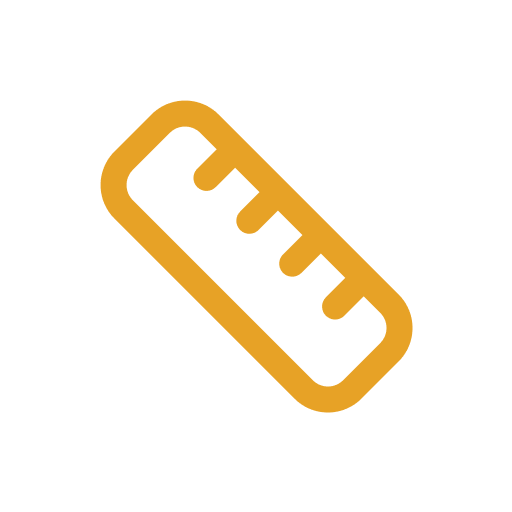
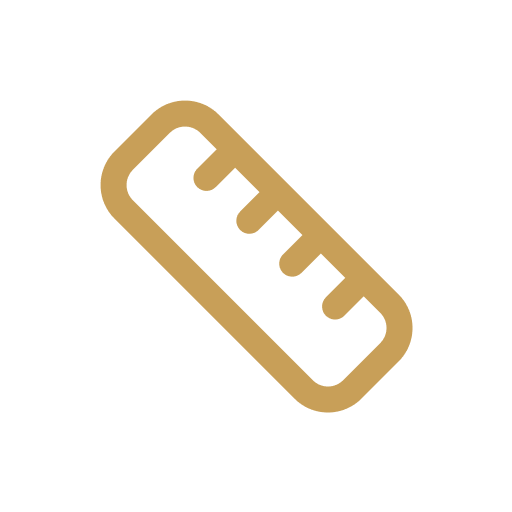
Harden gallery background refresh

Changed region(s): [[0.1875, 0.1875, 0.8125, 0.8125]]

diff --git a/components/gallery.tsx b/components/gallery.tsx
@@ -1,10 +1,9 @@
 "use client"
 
 import { Heart, Plus, Ruler, Search, Tags, Upload, X } from "lucide-react"
-import { useRouter } from "next/navigation"
 import { useEffect, useMemo, useRef, useState } from "react"
 import { toast } from "sonner"
-import { createPattern, createPatternsBatch, deletePattern, updatePattern } from "@/app/actions/patterns"
+import { createPattern, createPatternsBatch, deletePattern, getGallerySnapshot, updatePattern } from "@/app/actions/patterns"
 import { PatternCard } from "@/components/pattern-card"
 import { PatternModal } from "@/components/pattern-modal"
 import { PatternEditor, type EditablePattern } from "@/components/pattern-editor"
@@ -43,7 +42,6 @@ export function Gallery({
   patterns: GalleryPattern[]
   tags: AdminTag[]
 }) {
-  const router = useRouter()
   const [studio, setStudio] = useState<string>("all")
   const [categories, setCategories] = useState<string[]>([])
   const [query, setQuery] = useState("")
@@ -85,6 +83,7 @@ export function Gallery({
   // 本地可写的纸样列表（乐观更新）。首屏来自服务端数据，新增/编辑/删除时立刻改这里，
   // 后台 fire-and-forget 同步到 server（unstable_cache 命中时刷新几乎无感）。
   const [patterns, setPatterns] = useState<GalleryPattern[]>(initialPatterns)
+  const [currentTags, setCurrentTags] = useState<AdminTag[]>(tags)
   useEffect(() => {
     setPatterns(initialPatterns)
   }, [initialPatterns])
@@ -98,31 +97,47 @@ export function Gallery({
   const [deleting, setDeleting] = useState(false)
 
   // Keep other devices reasonably fresh without requiring a manual reload.
-  // Pause while a dialog is open so a refresh cannot interrupt an active edit/import.
+  // Use a safely caught Server Action instead of router.refresh(), so a transient
+  // database error cannot replace the whole gallery with the route error boundary.
+  const snapshotRequestInFlight = useRef(false)
   useEffect(() => {
     if (active || editorOpen || tagManagerOpen || batchOpen || deleteTarget) return
-    const refreshIfVisible = () => {
-      if (!document.hidden) router.refresh()
+    let disposed = false
+    const refreshIfVisible = async () => {
+      if (document.hidden || snapshotRequestInFlight.current) return
+      snapshotRequestInFlight.current = true
+      try {
+        const snapshot = await getGallerySnapshot()
+        if (disposed) return
+        setPatterns(snapshot.patterns)
+        setCurrentTags(snapshot.tags)
+      } catch (error) {
+        // Keep the last good snapshot visible; a later poll will retry.
+        console.warn("[gallery] Background refresh failed; keeping current data", error)
+      } finally {
+        snapshotRequestInFlight.current = false
+      }
     }
     const timer = window.setInterval(refreshIfVisible, 15_000)
     document.addEventListener("visibilitychange", refreshIfVisible)
     return () => {
+      disposed = true
       window.clearInterval(timer)
       document.removeEventListener("visibilitychange", refreshIfVisible)
     }
-  }, [router, active, editorOpen, tagManagerOpen, batchOpen, deleteTarget])
+  }, [active, editorOpen, tagManagerOpen, batchOpen, deleteTarget])
 
   // 标签名 -> 颜色 key
   const tagColors = useMemo(() => {
     const m: Record<string, string> = {}
-    tags.forEach((t) => (m[t.name] = t.color))
+    currentTags.forEach((t) => (m[t.name] = t.color))
     return m
-  }, [tags])
+  }, [currentTags])
 
   // 编辑器用的标签信息
   const tagInfos = useMemo<TagInfo[]>(
-    () => tags.map((t) => ({ name: t.name, color: t.color as TagInfo["color"] })),
-    [tags],
+    () => currentTags.map((t) => ({ name: t.name, color: t.color as TagInfo["color"] })),
+    [currentTags],
   )
 
   // 数据版本号：服务器返回的 patterns 引用变化时递增，用于触发本地状态重置
@@ -458,7 +473,7 @@ export function Gallery({
         <main className="min-w-0 flex-1 px-4 py-5 sm:px-6">
           {/* 品类标签筛选栏 */}
           <div className="mb-5 flex flex-wrap items-center gap-2">
-            {tags.map((tag) => {
+            {currentTags.map((tag) => {
               const selected = categories.includes(tag.name)
               const c = tagColorClasses(tag.color)
               return (
@@ -587,7 +602,7 @@ export function Gallery({
       <TagManager
         open={tagManagerOpen}
         onOpenChange={setTagManagerOpen}
-        tags={tags}
+        tags={currentTags}
       />
 
       <BatchUpload

diff --git a/components/batch-upload.tsx b/components/batch-upload.tsx
@@ -28,8 +28,8 @@ const TEMPLATE_HEADERS = [
   "图3",
   "图4",
   "图5",
-  "电子文件名",
   "网盘链接",
+  "电子文件名",
   "备注",
 ] as const
 
@@ -43,8 +43,8 @@ const TEMPLATE_EXAMPLE = [
   "",
   "",
   "",
-  "shirt.pdf",
   "",
+  "shirt.pdf",
   "春夏新款",
 ]
 
@@ -62,7 +62,7 @@ function createExcelTemplate() {
     const ref = `${String.fromCharCode(65 + i)}2`
     return `<c r="${ref}" t="inlineStr"><is><t>${xmlEscape(value)}</t></is></c>`
   }).join("")
-  const widths = [24, 20, 22, 16, 16, 16, 16, 16, 24, 36, 28]
+  const widths = [24, 20, 22, 16, 16, 16, 16, 16, 36, 24, 28]
     .map((width, i) => `<col min="${i + 1}" max="${i + 1}" width="${width}" customWidth="1"/>`)
     .join("")
   const sheetXml = `<?xml version="1.0" encoding="UTF-8" standalone="yes"?><worksheet xmlns="http://schemas.openxmlformats.org/spreadsheetml/2006/main"><sheetViews><sheetView workbookViewId="0"><pane ySplit="1" topLeftCell="A2" activePane="bottomLeft" state="frozen"/></sheetView></sheetViews><sheetFormatPr defaultRowHeight="72"/><cols>${widths}</cols><sheetData><row r="1" ht="25" customHeight="1">${headerCells}</row><row r="2">${exampleCells}</row></sheetData><autoFilter ref="A1:K2"/></worksheet>`

diff --git a/app/actions/patterns.ts b/app/actions/patterns.ts
@@ -6,7 +6,7 @@ import { updateTag } from "next/cache"
 import { queryDb, sqlDb } from "@/lib/db"
 import { patterns, tags } from "@/lib/db/schema"
 import { deleteFromOss, signUrl } from "@/lib/oss"
-import { getAllPatterns } from "@/lib/queries"
+import { getAllPatterns, getAllTags } from "@/lib/queries"
 import { queryWithRetry } from "@/lib/db/retry"
 
 function toSignedUrl(key: string | null): string {
@@ -119,6 +119,12 @@ export type PatternInput = {
 
 export async function listPatterns() {
     return getAllPatterns()
+}
+
+/** 后台同步数据使用 Server Action 调用，客户端可以安全捕获瞬时读取失败。 */
+export async function getGallerySnapshot() {
+    const [patterns, tags] = await Promise.all([getAllPatterns(), getAllTags()])
+    return { patterns, tags }
 }
 
 export type CreatePatternResult = {
